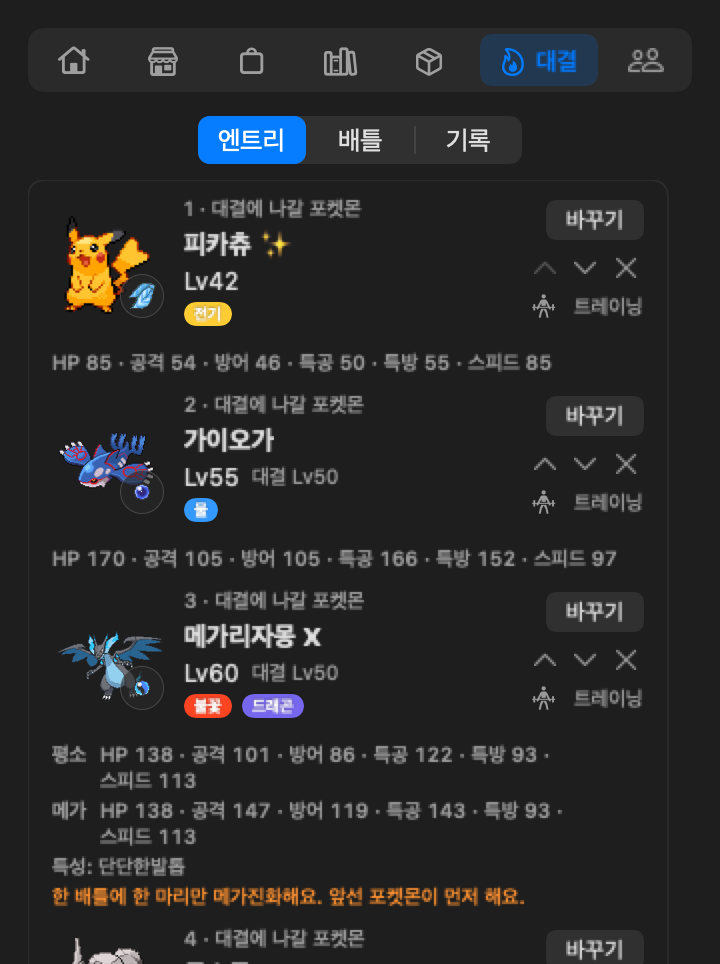
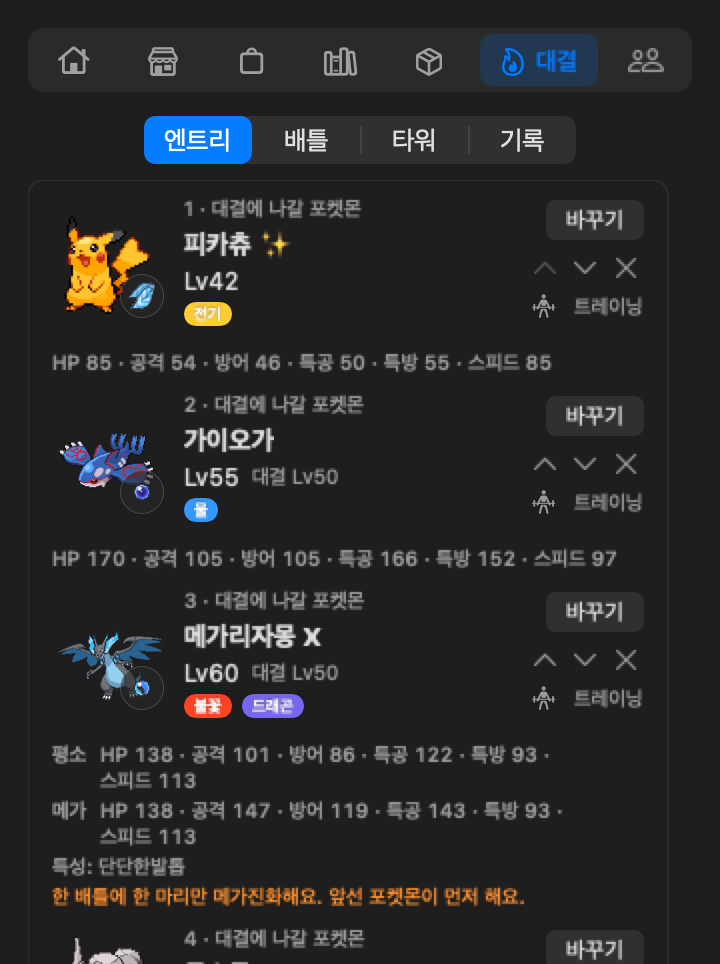
landing: add the Battle Tower to the battle page and redraw the Battle tab screenshots

Changed region(s): [[0.1833, 0.0934, 0.7639, 0.1867]]

diff --git a/pages-i18n.js b/pages-i18n.js
@@ -101,6 +101,9 @@ const I18N_PAGES = {
     "bat.shop.d": "The Shop sells every held item that does something in battle: the Red and Blue Orbs, plates and resist berries NPC trainers hold, and also type gems, pinch berries, memories and drives.",
     "bat.replay.t": "Watch it play out",
     "bat.replay.d": "A gym fight plays back turn by turn: moves, damage, HP bars and each side’s remaining Pokémon. Mega Evolutions and form changes show in their new form from the turn they happen. Move names follow the app language. Fast-forward, step to the next turn, or skip to the result.",
+    "bat.tower.t": "The Battle Tower",
+    "bat.tower.d": "Fight 3-on-3 at Lv50 with a full heal between battles, in sets of ten; a loss resets your streak. Bring your own three Pokémon, or take six rentals and swap one after each win. The tower owner waits at battle 20 for a silver trophy and at battle 50 for gold. BP earned along the way buys rare items, held battle items, Mega Stones for species you own and a Legendary Scout Ticket. The Coworkers tab shows each mode’s best streaks, and Slack’s /타워 shows them too, with record posts you can turn off.",
+    "alt.tower": "Native Battle Tower sample, own-team mode, with the streak and BP shown",
     "bat.bot.t": "The YPoke Slack battle bot",
     "bat.bot.d": "The bot links the app to your team’s Slack. The app uploads your entry, and battles run on the bot. Away from the office, /파티, /박스 and /가방 show only you your party, Box and bag as the app last synced them. /파티 also changes your battle lineup, moves and held items (the move and held-item menus search every learnable move and holdable item as you type, in /트레이닝 too), and /박스 adds a Pokémon to it; coworkers’ /대결 uses the new lineup at once, and the app picks it up at its next office sync. /상점 buys from the app’s Shop with the last synced balance less what you already bought in Slack; the items are ready for your Slack lineup at once, and the app settles the purchase at its next office sync. /트레이닝 trains a party or Box Pokémon with a Mint, Ability Capsule or Patch, Bottle Caps or the Mirror Herb, evolves it with a Linking Cord when the app offers one, or changes its form and moves, paid from your bag or the same balance; coworkers’ /대결 uses it at once, and the app applies it at its next office sync. /교환 offers a Box Pokémon to a coworker and lists your open trades, and /미라클 posts one as a Miracle offer or takes it down; what you receive reaches the app at its next office sync.",
     "bat.bot.link.t": "Link once",
@@ -239,6 +242,9 @@ const I18N_PAGES = {
     "bat.shop.d": "상점에서는 대결에서 효과가 있는 지닌 도구를 모두 팔아요. NPC 트레이너가 지닌 주홍구슬·쪽빛구슬, 플레이트, 반감 열매부터 타입 주얼, 위기에 먹는 열매, 메모리, 카세트까지요.",
     "bat.replay.t": "대결 다시 보기",
     "bat.replay.d": "체육관 대결은 턴마다 다시 재생돼요. 기술·대미지·HP 바·양쪽에 남은 포켓몬을 볼 수 있고, 빨리 감기·다음 턴·건너뛰기로 결과까지 넘길 수 있어요. 메가진화나 폼 변화는 그 턴부터 바뀐 모습으로 나와요. 기술 이름은 앱 언어로 나와요.",
+    "bat.tower.t": "배틀 타워",
+    "bat.tower.d": "3대3, 레벨 50으로 싸워요. 대결 사이에 체력이 모두 회복되고, 열 판이 한 세트예요. 지면 연승이 처음으로 돌아가요. 내 포켓몬 셋으로 나가거나, 대여 여섯 마리 중 셋을 골라 이길 때마다 한 마리씩 바꿀 수 있어요. 타워 주인이 20번째 대결에서 은 트로피를, 50번째에서 금 트로피를 줘요. 모은 BP로 희귀 아이템, 배틀용 지닌 물건, 가진 종의 메가스톤, 전설 스카우트 티켓을 살 수 있어요. 동료 탭에 모드별 최고 연승이 나오고, 슬랙 /타워로도 볼 수 있어요. 기록 알림은 끌 수 있어요.",
+    "alt.tower": "연승과 BP가 보이는 배틀 타워 내 팀 모드의 실제 UI 샘플",
     "bat.bot.t": "YPoke 슬랙 대결 봇",
     "bat.bot.d": "봇이 앱과 팀의 슬랙을 이어 줘요. 앱이 엔트리를 올리고, 대결은 봇이 돌려요. 회사 밖에서도 /파티·/박스·/가방으로 앱이 마지막으로 동기화한 파티, 박스, 가방을 나만 볼 수 있어요. /파티에서는 대결 엔트리와 기술, 지닌 도구도 바꿀 수 있고(기술·도구 메뉴는 입력하는 대로 배울 수 있는 모든 기술과 지닐 수 있는 모든 도구를 찾아요. /트레이닝도 같아요), /박스에서 엔트리에 넣을 수 있어요. 바꾼 엔트리는 동료의 /대결에 바로 쓰이고, 앱은 다음에 회사에서 동기화할 때 받아요. /상점에서는 마지막 동기화 잔액에서 슬랙으로 산 만큼을 뺀 토큰으로 앱 상점 물건을 사요. 산 물건은 슬랙 엔트리에 바로 쓸 수 있고, 앱은 다음에 회사에서 동기화할 때 구매를 마쳐요. /트레이닝에서는 파티·박스 포켓몬에 민트·특성캡슐·특성패치·병뚜껑·흉내허브를 쓰고, 앱에서 진화할 수 있는 포켓몬은 연결의끈으로 진화시키고, 폼과 기술을 바꿔요. 가방 도구나 같은 잔액으로 쓰고, 바뀐 포켓몬은 동료의 /대결에 바로 쓰이며 앱은 다음에 회사에서 동기화할 때 받아요. /교환에서는 박스 포켓몬으로 동료에게 교환을 제안하고 진행 중인 교환을 봐요. /미라클에서는 박스 포켓몬을 미라클 교환에 올리거나 내려요. 받은 포켓몬은 앱이 다음에 회사에서 동기화할 때 들어와요.",
     "bat.bot.link.t": "한 번만 연결",
@@ -377,6 +383,9 @@ const I18N_PAGES = {
     "bat.shop.d": "ショップでは、バトルで効果のあるもちものをすべて売っています。NPC トレーナーが持つべにいろのたま・あいいろのたま、プレート、半減きのみから、タイプのジュエル、ピンチきのみ、メモリ、カセットまであります。",
     "bat.replay.t": "バトルを見返す",
     "bat.replay.d": "ジムのバトルはターンごとに再生されます。わざ・ダメージ・HP バー・双方の残りのポケモンを確認でき、早送り・次のターン・スキップで結果まで進められます。メガシンカやフォルムチェンジは、そのターンから変わった姿で表示されます。わざの名前はアプリの言語で表示されます。",
+    "bat.tower.t": "バトルタワー",
+    "bat.tower.d": "レベル50の3対3で戦います。バトルの間にHPは全回復し、10戦で1セットです。負けると連勝は0に戻ります。自分のポケモン3匹で挑むか、レンタル6匹から3匹を選び、勝つたびに1匹入れ替えられます。タワーオーナーは20戦目で銀のトロフィー、50戦目で金のトロフィーをくれます。集めたBPで、希少なアイテム、バトル用のもちもの、持っている種のメガストーン、伝説スカウトチケットを買えます。コワーカータブにモードごとの最高連勝が出て、Slack の /타워 でも見られます。記録の投稿はオフにできます。",
+    "alt.tower": "連勝とBPを表示したバトルタワー（自分のチームモード）の実際のUIサンプル",
     "bat.bot.t": "YPoke の Slack バトルボット",
     "bat.bot.d": "ボットがアプリとチームの Slack をつなぎます。アプリがエントリーを送り、バトルはボットが行います。会社の外でも /파티・/박스・/가방 で、アプリが最後に同期したパーティ、ボックス、バッグを自分だけに表示できます。/파티 ではバトルのエントリー・わざ・持ち物も変えられ(わざと持ち物のメニューは、入力に合わせて覚えられる全てのわざと持たせられる全ての道具を探せます。/트레이닝 も同じです)、/박스 からエントリーに入れられます。変えたエントリーは同僚の /대결 ですぐ使われ、アプリは次に会社で同期したときに受け取ります。/상점 では、最後に同期した残高からSlackで買った分を引いたトークンでアプリのショップの品を買えます。買った品はSlackのエントリーですぐ使え、アプリは次に会社で同期したときに購入を確定します。/트레이닝 では、パーティやボックスのポケモンにミント・とくせいカプセル・とくせいパッチ・おうかん・ものまねハーブを使い、アプリで進化できるポケモンはつながりのヒモで進化させ、フォルムやわざを変えられます。バッグの道具か同じ残高で払い、変えたポケモンは同僚の /대결 ですぐ使われ、アプリは次に会社で同期したときに受け取ります。/교환 ではボックスのポケモンで同僚に交換を申し込み、進行中の交換を確認できます。/미라클 ではボックスのポケモンをミラクル交換に出したり取り下げたりできます。受け取ったポケモンはアプリが次に会社で同期したときに届きます。",
     "bat.bot.link.t": "一度つなぐだけ",

diff --git a/battle/index.html b/battle/index.html
@@ -49,6 +49,8 @@ try { var savedTheme=localStorage.getItem('ptb-theme'); if(savedTheme==='dark'||
 
 <section class="feature-story" id="replay" aria-labelledby="replay-title"><div class="feature-copy"><h2 id="replay-title" data-i18n="bat.replay.t">Watch it play out</h2><p data-i18n="bat.replay.d">A gym fight plays back turn by turn: moves, damage, HP bars and each side’s remaining Pokémon. Mega Evolutions and form changes show in their new form from the turn they happen. Move names follow the app language. Fast-forward, step to the next turn, or skip to the result.</p></div>
 <figure class="feature-media"><img src="../assets/screenshot-gym-replay.png" data-i18n-image="screenshot-gym-replay" width="720" height="580" loading="lazy" data-i18n-alt="alt.replay" alt="Native gym battle replay sample stopped mid-fight"><figcaption data-i18n="native.current">Native UI renders · sample states</figcaption></figure></section>
+<section class="feature-story" id="tower" aria-labelledby="tower-title"><div class="feature-copy"><h2 id="tower-title" data-i18n="bat.tower.t">The Battle Tower</h2><p data-i18n="bat.tower.d">Fight 3-on-3 at Lv50 with a full heal between battles, in sets of ten; a loss resets your streak. Bring your own three Pokémon, or take six rentals and swap one after each win. The tower owner waits at battle 20 for a silver trophy and at battle 50 for gold. BP earned along the way buys rare items, held battle items, Mega Stones for species you own and a Legendary Scout Ticket. The Coworkers tab shows each mode’s best streaks, and Slack’s /타워 shows them too, with record posts you can turn off.</p></div>
+<figure class="feature-media"><img src="../assets/screenshot-tower.png" data-i18n-image="screenshot-tower" width="720" height="568" loading="lazy" data-i18n-alt="alt.tower" alt="Native Battle Tower sample, own-team mode, with the streak and BP shown"><figcaption data-i18n="native.current">Native UI renders · sample states</figcaption></figure></section>
 
 <section class="feature-group" id="bot" aria-labelledby="bot-title"><h2 id="bot-title" data-i18n="bat.bot.t">The YPoke Slack battle bot</h2><p class="growth-lead" data-i18n="bat.bot.d">The bot links the app to your team’s Slack. The app uploads your entry, and battles run on the bot. Away from the office, /파티, /박스 and /가방 show only you your party, Box and bag as the app last synced them. /파티 also changes your battle lineup, moves and held items (the move and held-item menus search every learnable move and holdable item as you type, in /트레이닝 too), and /박스 adds a Pokémon to it; coworkers’ /대결 uses the new lineup at once, and the app picks it up at its next office sync. /상점 buys from the app’s Shop with the last synced balance less what you already bought in Slack; the items are ready for your Slack lineup at once, and the app settles the purchase at its next office sync. /트레이닝 trains a party or Box Pokémon with a Mint, Ability Capsule or Patch, Bottle Caps or the Mirror Herb, evolves it with a Linking Cord when the app offers one, or changes its form and moves, paid from your bag or the same balance; coworkers’ /대결 uses it at once, and the app applies it at its next office sync. /교환 offers a Box Pokémon to a coworker and lists your open trades, and /미라클 posts one as a Miracle offer or takes it down; what you receive reaches the app at its next office sync.</p><div class="card-grid quad">
 <article><h3 data-i18n="bat.bot.link.t">Link once</h3><p data-i18n="bat.bot.link.d">Ask the bot for a link. A button in the DM saves the connection in the app, and the token never leaves the DM.</p></article>
@@ -65,6 +67,6 @@ try { var savedTheme=localStorage.getItem('ptb-theme'); if(savedTheme==='dark'||
 <li><a class="page-link" href="../items/" data-internal><span class="page-link-title" data-i18n="pages.items.t">Items and moves</span><span class="page-link-desc" data-i18n="pages.items.d">The token Shop, held items and Mega Evolution, TMs, the Exp. Share, and nature, ability and IV items.</span></a></li>
 </ul><a class="btn btn-primary" href="../#install" data-internal><svg viewBox="0 0 24 24" fill="none" stroke="currentColor" stroke-width="1.75" stroke-linecap="round" stroke-linejoin="round" aria-hidden="true"><path d="M12 3v12m-5-5 5 5 5-5M5 17v4h14v-4"/></svg><span data-i18n="hero.install">Get PokeTokenBar</span></a></div></section>
 </main><footer class="site-footer"><div class="wrap"><div class="footer-top"><a class="brand" href="../" data-internal><img src="../assets/icon.png" width="32" height="32" alt=""><span>PokeTokenBar</span></a><nav class="footer-links" data-i18n-aria="aria.project" aria-label="Project links"><a data-i18n="footer.source" href="https://github.com/w8385/PokeTokenBar-yp" target="_blank" rel="noopener">Source code</a><a data-i18n="footer.releases" href="https://github.com/w8385/PokeTokenBar-yp/releases" target="_blank" rel="noopener">Release notes</a><a data-i18n="footer.help" href="https://github.com/w8385/PokeTokenBar-yp/issues" target="_blank" rel="noopener">Get help</a><a data-i18n="footer.upstream" href="https://github.com/chattymin/PokeTokenBar" target="_blank" rel="noopener">Original by chattymin</a><a data-i18n="footer.sponsor" href="https://github.com/sponsors/chattymin" target="_blank" rel="noopener">Sponsor</a></nav></div><p data-i18n="foot.disclaimer" class="disclaimer">Pokémon data &amp; sprites by PokéAPI. This is an unofficial, non-commercial fan project. It is not affiliated with, endorsed, sponsored, or approved by Nintendo, Game Freak, or The Pokémon Company. Pokémon and Pokémon character names are trademarks of Nintendo; names, data, and sprites are © Nintendo / Game Freak / The Pokémon Company, used at runtime for identification only. The MIT license covers this project's source code only.</p></div></footer>
-<script src="../pages-i18n.js?v=9d87ab1c" defer></script>
-<script src="../app.js?v=73a685de" defer></script>
+<script src="../pages-i18n.js?v=b0dcd735" defer></script>
+<script src="../app.js?v=d4a0b49a" defer></script>
 </body></html>

diff --git a/index.html b/index.html
@@ -144,6 +144,6 @@ try { var savedTheme=localStorage.getItem('ptb-theme'); if(savedTheme==='dark'||
 </ul><p class="note" data-i18n="providers.note">Limits depend on your login: official Claude, Codex and Antigravity limits, OpenCode Go allowances and Grok CLI subscription credits. Devin CLI and Kimi Code record no cost, so their cost shows as unavailable.</p></div></section>
 <section class="section faq"><div class="wrap faq-layout"><h2 data-i18n="faq.title" >A few good questions.</h2><div><details><summary><span data-i18n="faq.free.q" >Is it free?</span></summary><div class="details-body"><p data-i18n="faq.free.a" >Yes. PokeTokenBar is a free, open-source fan project. Shop items use the tokens you’ve already spent on coding, not real-money purchases.</p></div></details><details><summary><span data-i18n="faq.notool.q">Do I need an AI coding tool?</span></summary><div class="details-body"><p data-i18n="faq.notool.a">No. Time mode grows your partner from the time you are active on your Mac. Usage and limit tracking needs at least one supported tool.</p></div></details><details><summary><span data-i18n="faq.privacy.q" >Does it upload my usage logs?</span></summary><div class="details-body"><p data-i18n="faq.privacy.a" >No. Usage logs stay on your Mac. The app still uses the network for provider usage and limits, Pokémon data and sprites, service status and updates. It is not a fully offline app.</p></div></details><details><summary><span data-i18n="faq.cost.q" >Does raising a Pokémon spend extra tokens?</span></summary><div class="details-body"><p data-i18n="faq.cost.a" >No. The app reads usage from your supported coding tools. It doesn’t run model turns to grow your companion.</p></div></details><details><summary><span data-i18n="faq.fork.q">How is this different from PokeTokenBar?</span></summary><div class="details-body"><p data-i18n="faq.fork.a">PokeTokenBar-yp is an unofficial fork of chattymin’s PokeTokenBar (MIT). It adds the features under Only in PokeTokenBar-yp. Report problems with this fork here, not to the original project.</p><a class="text-link" href="https://github.com/chattymin/PokeTokenBar" target="_blank" rel="noopener">chattymin/PokeTokenBar</a></div></details><details><summary><span data-i18n="faq.source.q" >Can I build it myself?</span></summary><div class="details-body"><p data-i18n="faq.source.a" >Yes. The Swift source, build instructions and issue tracker are on GitHub.</p><a class="text-link" href="https://github.com/w8385/PokeTokenBar-yp" target="_blank" rel="noopener">GitHub</a></div></details></div></div></section>
 </main><footer class="site-footer"><div class="wrap"><div class="footer-top"><a class="brand" href="#top"><img src="assets/icon.png" width="32" height="32" alt=""><span>PokeTokenBar</span></a><nav class="footer-links" data-i18n-aria="aria.project" aria-label="Project links"><a data-i18n="footer.source" href="https://github.com/w8385/PokeTokenBar-yp" target="_blank" rel="noopener">Source code</a><a data-i18n="footer.releases" href="https://github.com/w8385/PokeTokenBar-yp/releases" target="_blank" rel="noopener">Release notes</a><a data-i18n="footer.help" href="https://github.com/w8385/PokeTokenBar-yp/issues" target="_blank" rel="noopener">Get help</a><a data-i18n="footer.upstream" href="https://github.com/chattymin/PokeTokenBar" target="_blank" rel="noopener">Original by chattymin</a><a data-i18n="footer.sponsor" href="https://github.com/sponsors/chattymin" target="_blank" rel="noopener">Sponsor</a></nav></div><p data-i18n="foot.disclaimer" class="disclaimer">Pokémon data &amp; sprites by PokéAPI. This is an unofficial, non-commercial fan project. It is not affiliated with, endorsed, sponsored, or approved by Nintendo, Game Freak, or The Pokémon Company. Pokémon and Pokémon character names are trademarks of Nintendo; names, data, and sprites are © Nintendo / Game Freak / The Pokémon Company, used at runtime for identification only. The MIT license covers this project's source code only.</p></div></footer>
-<script src="pages-i18n.js?v=9d87ab1c" defer></script>
-<script src="app.js?v=73a685de" defer></script>
+<script src="pages-i18n.js?v=b0dcd735" defer></script>
+<script src="app.js?v=d4a0b49a" defer></script>
 </body></html>

diff --git a/items/index.html b/items/index.html
@@ -64,6 +64,6 @@ try { var savedTheme=localStorage.getItem('ptb-theme'); if(savedTheme==='dark'||
 <li><a class="page-link" href="../battle/" data-internal><span class="page-link-title" data-i18n="pages.battle.t">Battles and gyms</span><span class="page-link-desc" data-i18n="pages.battle.d">The Battle tab, eight gyms per region, the Elite Four and the champion, the hidden boss, replays and the Slack battle bot.</span></a></li>
 </ul><a class="btn btn-primary" href="../#install" data-internal><svg viewBox="0 0 24 24" fill="none" stroke="currentColor" stroke-width="1.75" stroke-linecap="round" stroke-linejoin="round" aria-hidden="true"><path d="M12 3v12m-5-5 5 5 5-5M5 17v4h14v-4"/></svg><span data-i18n="hero.install">Get PokeTokenBar</span></a></div></section>
 </main><footer class="site-footer"><div class="wrap"><div class="footer-top"><a class="brand" href="../" data-internal><img src="../assets/icon.png" width="32" height="32" alt=""><span>PokeTokenBar</span></a><nav class="footer-links" data-i18n-aria="aria.project" aria-label="Project links"><a data-i18n="footer.source" href="https://github.com/w8385/PokeTokenBar-yp" target="_blank" rel="noopener">Source code</a><a data-i18n="footer.releases" href="https://github.com/w8385/PokeTokenBar-yp/releases" target="_blank" rel="noopener">Release notes</a><a data-i18n="footer.help" href="https://github.com/w8385/PokeTokenBar-yp/issues" target="_blank" rel="noopener">Get help</a><a data-i18n="footer.upstream" href="https://github.com/chattymin/PokeTokenBar" target="_blank" rel="noopener">Original by chattymin</a><a data-i18n="footer.sponsor" href="https://github.com/sponsors/chattymin" target="_blank" rel="noopener">Sponsor</a></nav></div><p data-i18n="foot.disclaimer" class="disclaimer">Pokémon data &amp; sprites by PokéAPI. This is an unofficial, non-commercial fan project. It is not affiliated with, endorsed, sponsored, or approved by Nintendo, Game Freak, or The Pokémon Company. Pokémon and Pokémon character names are trademarks of Nintendo; names, data, and sprites are © Nintendo / Game Freak / The Pokémon Company, used at runtime for identification only. The MIT license covers this project's source code only.</p></div></footer>
-<script src="../pages-i18n.js?v=9d87ab1c" defer></script>
-<script src="../app.js?v=73a685de" defer></script>
+<script src="../pages-i18n.js?v=b0dcd735" defer></script>
+<script src="../app.js?v=d4a0b49a" defer></script>
 </body></html>

diff --git a/collection/index.html b/collection/index.html
@@ -66,6 +66,6 @@ try { var savedTheme=localStorage.getItem('ptb-theme'); if(savedTheme==='dark'||
 <li><a class="page-link" href="../items/" data-internal><span class="page-link-title" data-i18n="pages.items.t">Items and moves</span><span class="page-link-desc" data-i18n="pages.items.d">The token Shop, held items and Mega Evolution, TMs, the Exp. Share, and nature, ability and IV items.</span></a></li>
 </ul><a class="btn btn-primary" href="../#install" data-internal><svg viewBox="0 0 24 24" fill="none" stroke="currentColor" stroke-width="1.75" stroke-linecap="round" stroke-linejoin="round" aria-hidden="true"><path d="M12 3v12m-5-5 5 5 5-5M5 17v4h14v-4"/></svg><span data-i18n="hero.install">Get PokeTokenBar</span></a></div></section>
 </main><footer class="site-footer"><div class="wrap"><div class="footer-top"><a class="brand" href="../" data-internal><img src="../assets/icon.png" width="32" height="32" alt=""><span>PokeTokenBar</span></a><nav class="footer-links" data-i18n-aria="aria.project" aria-label="Project links"><a data-i18n="footer.source" href="https://github.com/w8385/PokeTokenBar-yp" target="_blank" rel="noopener">Source code</a><a data-i18n="footer.releases" href="https://github.com/w8385/PokeTokenBar-yp/releases" target="_blank" rel="noopener">Release notes</a><a data-i18n="footer.help" href="https://github.com/w8385/PokeTokenBar-yp/issues" target="_blank" rel="noopener">Get help</a><a data-i18n="footer.upstream" href="https://github.com/chattymin/PokeTokenBar" target="_blank" rel="noopener">Original by chattymin</a><a data-i18n="footer.sponsor" href="https://github.com/sponsors/chattymin" target="_blank" rel="noopener">Sponsor</a></nav></div><p data-i18n="foot.disclaimer" class="disclaimer">Pokémon data &amp; sprites by PokéAPI. This is an unofficial, non-commercial fan project. It is not affiliated with, endorsed, sponsored, or approved by Nintendo, Game Freak, or The Pokémon Company. Pokémon and Pokémon character names are trademarks of Nintendo; names, data, and sprites are © Nintendo / Game Freak / The Pokémon Company, used at runtime for identification only. The MIT license covers this project's source code only.</p></div></footer>
-<script src="../pages-i18n.js?v=9d87ab1c" defer></script>
-<script src="../app.js?v=73a685de" defer></script>
+<script src="../pages-i18n.js?v=b0dcd735" defer></script>
+<script src="../app.js?v=d4a0b49a" defer></script>
 </body></html>

diff --git a/growth/index.html b/growth/index.html
@@ -69,6 +69,6 @@ try { var savedTheme=localStorage.getItem('ptb-theme'); if(savedTheme==='dark'||
 <li><a class="page-link" href="../items/" data-internal><span class="page-link-title" data-i18n="pages.items.t">Items and moves</span><span class="page-link-desc" data-i18n="pages.items.d">The token Shop, held items and Mega Evolution, TMs, the Exp. Share, and nature, ability and IV items.</span></a></li>
 </ul><a class="btn btn-primary" href="../#install" data-internal><svg viewBox="0 0 24 24" fill="none" stroke="currentColor" stroke-width="1.75" stroke-linecap="round" stroke-linejoin="round" aria-hidden="true"><path d="M12 3v12m-5-5 5 5 5-5M5 17v4h14v-4"/></svg><span data-i18n="hero.install">Get PokeTokenBar</span></a></div></section>
 </main><footer class="site-footer"><div class="wrap"><div class="footer-top"><a class="brand" href="../" data-internal><img src="../assets/icon.png" width="32" height="32" alt=""><span>PokeTokenBar</span></a><nav class="footer-links" data-i18n-aria="aria.project" aria-label="Project links"><a data-i18n="footer.source" href="https://github.com/w8385/PokeTokenBar-yp" target="_blank" rel="noopener">Source code</a><a data-i18n="footer.releases" href="https://github.com/w8385/PokeTokenBar-yp/releases" target="_blank" rel="noopener">Release notes</a><a data-i18n="footer.help" href="https://github.com/w8385/PokeTokenBar-yp/issues" target="_blank" rel="noopener">Get help</a><a data-i18n="footer.upstream" href="https://github.com/chattymin/PokeTokenBar" target="_blank" rel="noopener">Original by chattymin</a><a data-i18n="footer.sponsor" href="https://github.com/sponsors/chattymin" target="_blank" rel="noopener">Sponsor</a></nav></div><p data-i18n="foot.disclaimer" class="disclaimer">Pokémon data &amp; sprites by PokéAPI. This is an unofficial, non-commercial fan project. It is not affiliated with, endorsed, sponsored, or approved by Nintendo, Game Freak, or The Pokémon Company. Pokémon and Pokémon character names are trademarks of Nintendo; names, data, and sprites are © Nintendo / Game Freak / The Pokémon Company, used at runtime for identification only. The MIT license covers this project's source code only.</p></div></footer>
-<script src="../pages-i18n.js?v=9d87ab1c" defer></script>
-<script src="../app.js?v=73a685de" defer></script>
+<script src="../pages-i18n.js?v=b0dcd735" defer></script>
+<script src="../app.js?v=d4a0b49a" defer></script>
 </body></html>

diff --git a/usage/index.html b/usage/index.html
@@ -88,6 +88,6 @@ try { var savedTheme=localStorage.getItem('ptb-theme'); if(savedTheme==='dark'||
 <li><a class="page-link" href="../items/" data-internal><span class="page-link-title" data-i18n="pages.items.t">Items and moves</span><span class="page-link-desc" data-i18n="pages.items.d">The token Shop, held items and Mega Evolution, TMs, the Exp. Share, and nature, ability and IV items.</span></a></li>
 </ul><a class="btn btn-primary" href="../#install" data-internal><svg viewBox="0 0 24 24" fill="none" stroke="currentColor" stroke-width="1.75" stroke-linecap="round" stroke-linejoin="round" aria-hidden="true"><path d="M12 3v12m-5-5 5 5 5-5M5 17v4h14v-4"/></svg><span data-i18n="hero.install">Get PokeTokenBar</span></a></div></section>
 </main><footer class="site-footer"><div class="wrap"><div class="footer-top"><a class="brand" href="../" data-internal><img src="../assets/icon.png" width="32" height="32" alt=""><span>PokeTokenBar</span></a><nav class="footer-links" data-i18n-aria="aria.project" aria-label="Project links"><a data-i18n="footer.source" href="https://github.com/w8385/PokeTokenBar-yp" target="_blank" rel="noopener">Source code</a><a data-i18n="footer.releases" href="https://github.com/w8385/PokeTokenBar-yp/releases" target="_blank" rel="noopener">Release notes</a><a data-i18n="footer.help" href="https://github.com/w8385/PokeTokenBar-yp/issues" target="_blank" rel="noopener">Get help</a><a data-i18n="footer.upstream" href="https://github.com/chattymin/PokeTokenBar" target="_blank" rel="noopener">Original by chattymin</a><a data-i18n="footer.sponsor" href="https://github.com/sponsors/chattymin" target="_blank" rel="noopener">Sponsor</a></nav></div><p data-i18n="foot.disclaimer" class="disclaimer">Pokémon data &amp; sprites by PokéAPI. This is an unofficial, non-commercial fan project. It is not affiliated with, endorsed, sponsored, or approved by Nintendo, Game Freak, or The Pokémon Company. Pokémon and Pokémon character names are trademarks of Nintendo; names, data, and sprites are © Nintendo / Game Freak / The Pokémon Company, used at runtime for identification only. The MIT license covers this project's source code only.</p></div></footer>
-<script src="../pages-i18n.js?v=9d87ab1c" defer></script>
-<script src="../app.js?v=73a685de" defer></script>
+<script src="../pages-i18n.js?v=b0dcd735" defer></script>
+<script src="../app.js?v=d4a0b49a" defer></script>
 </body></html>

diff --git a/404.html b/404.html
@@ -34,6 +34,6 @@ try { var savedTheme=localStorage.getItem('ptb-theme'); if(savedTheme==='dark'||
 <li><a class="page-link" href="/PokeTokenBar-yp/items/" data-internal><span class="page-link-title" data-i18n="pages.items.t">Items and moves</span><span class="page-link-desc" data-i18n="pages.items.d">The token Shop, held items and Mega Evolution, TMs, the Exp. Share, and nature, ability and IV items.</span></a></li>
 </ul></div></section>
 </main><footer class="site-footer"><div class="wrap"><div class="footer-top"><a class="brand" href="/PokeTokenBar-yp/" data-internal><img src="/PokeTokenBar-yp/assets/icon.png" width="32" height="32" alt=""><span>PokeTokenBar</span></a><nav class="footer-links" data-i18n-aria="aria.project" aria-label="Project links"><a data-i18n="footer.source" href="https://github.com/w8385/PokeTokenBar-yp" target="_blank" rel="noopener">Source code</a><a data-i18n="footer.releases" href="https://github.com/w8385/PokeTokenBar-yp/releases" target="_blank" rel="noopener">Release notes</a><a data-i18n="footer.help" href="https://github.com/w8385/PokeTokenBar-yp/issues" target="_blank" rel="noopener">Get help</a><a data-i18n="footer.upstream" href="https://github.com/chattymin/PokeTokenBar" target="_blank" rel="noopener">Original by chattymin</a><a data-i18n="footer.sponsor" href="https://github.com/sponsors/chattymin" target="_blank" rel="noopener">Sponsor</a></nav></div><p data-i18n="foot.disclaimer" class="disclaimer">Pokémon data &amp; sprites by PokéAPI. This is an unofficial, non-commercial fan project. It is not affiliated with, endorsed, sponsored, or approved by Nintendo, Game Freak, or The Pokémon Company. Pokémon and Pokémon character names are trademarks of Nintendo; names, data, and sprites are © Nintendo / Game Freak / The Pokémon Company, used at runtime for identification only. The MIT license covers this project's source code only.</p></div></footer>
-<script src="/PokeTokenBar-yp/pages-i18n.js?v=9d87ab1c" defer></script>
-<script src="/PokeTokenBar-yp/app.js?v=73a685de" defer></script>
+<script src="/PokeTokenBar-yp/pages-i18n.js?v=b0dcd735" defer></script>
+<script src="/PokeTokenBar-yp/app.js?v=d4a0b49a" defer></script>
 </body></html>
